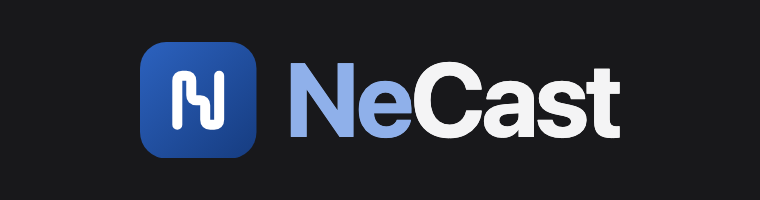
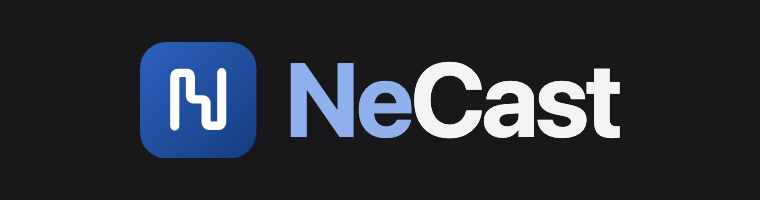
style: open up the steps of the N and sharpen its corners
The N is now drawn as an outline: stems 5 units wide, treads 4.6, 3.6 units
between the verticals (2.2 before, which closed up at 16 to 32 px), outer
corners of radius 4.2 and inner ones of 0.6, and round ends that reach just
past the top and bottom edges.

Changed region(s): [[0.2118, 0.33, 0.3026, 0.66]]

diff --git a/brand/build_brand.py b/brand/build_brand.py
@@ -4,45 +4,61 @@ The mark is an N drawn as a step function: the left stem rises, a high plateau s
 to a low plateau, and the right stem rises again, the shape of a population history with a
 bottleneck. White on a blue tile whose gradient centres on the NeCast blue (#1F4E9E).
 
+The N is drawn as an outline on a 64-unit grid rather than as a stroked line, so each part has
+its own measure: stems 5 units wide, treads 4.6 high (a horizontal looks heavier than a vertical
+of the same width), 3.6 units of blue between neighbouring verticals, so the steps stay open at
+small sizes. Outer corners turn with a radius of 4.2, inner ones with 0.6, and the two ends are
+round and reach 0.35 past the top and bottom edges, so they look as tall as the flat edges.
+
     python brand/build_brand.py            # writes brand/*.svg, public/favicon.svg, src/assets/logo.svg
     node brand/render_png.mjs              # then the PNG sizes, with headless Chrome
 """
+import math
 from pathlib import Path
 
 ROOT = Path(__file__).resolve().parent.parent
 BLUE, TOP, BOTTOM = "#1F4E9E", "#2C62BF", "#163C80"
 
-
-def rounded(points, r):
-    """Polyline through points, each bend rounded on the centre line with radius r."""
-    d = f"M{points[0][0]:.2f} {points[0][1]:.2f}"
-    for k in range(1, len(points) - 1):
-        (xa, ya), (xb, yb), (xc, yc) = points[k - 1], points[k], points[k + 1]
-
-        def toward(x0, y0, x1, y1):
-            length = ((x1 - x0) ** 2 + (y1 - y0) ** 2) ** 0.5
-            return x0 + (x1 - x0) * r / length, y0 + (y1 - y0) * r / length
-
-        (x1, y1), (x2, y2) = toward(xb, yb, xa, ya), toward(xb, yb, xc, yc)
-        d += f"L{x1:.2f} {y1:.2f}Q{xb:.2f} {yb:.2f} {x2:.2f} {y2:.2f}"
-    return d + f"L{points[-1][0]:.2f} {points[-1][1]:.2f}"
+STEM, TREAD, GAP, DROP = 5.0, 4.6, 3.6, 14.5
+OUTER, INNER, OVERSHOOT = 4.2, 0.6, 0.35
+CENTRE = (32.0, 31.5)  # a little above the middle of the tile
 
 
-# the N on a 64-unit grid: stems at x 20.5 and 43.5, from y 18.5 to 45.5; three treads, two drops
-X0, X1, Y0, Y1 = 20.5, 43.5, 18.5, 45.5
-TREAD, DROP = (X1 - X0) / 3, (Y1 - Y0) / 2
-POINTS = [(X0, Y1), (X0, Y0), (X0 + TREAD, Y0), (X0 + TREAD, Y0 + DROP), (X0 + 2 * TREAD, Y0 + DROP),
-          (X0 + 2 * TREAD, Y1), (X1, Y1), (X1, Y0)]
-STROKE = 5.5
-# Each bend is rounded with half the stroke width on the centre line: the outer edge then turns
-# with a radius of one stroke width and the inner edge meets in a clean corner. The treads are too
-# short for a larger radius; it would leave notches where neighbouring bends meet.
-GLYPH = rounded(POINTS, STROKE / 2)
+def outline(vertices):
+    """Closed path through the vertices, each corner ((x, y), r) turned with a circular arc of radius r."""
+    corners = []
+    for k, ((x, y), r) in enumerate(vertices):
+        (xp, yp), (xn, yn) = vertices[k - 1][0], vertices[(k + 1) % len(vertices)][0]
+        li, lo = math.hypot(x - xp, y - yp), math.hypot(xn - x, yn - y)
+        di, do = ((x - xp) / li, (y - yp) / li), ((xn - x) / lo, (yn - y) / lo)
+        sweep = 1 if di[0] * do[1] - di[1] * do[0] > 0 else 0
+        corners.append(((x - di[0] * r, y - di[1] * r), (x + do[0] * r, y + do[1] * r), r, sweep))
+    d = "M{:.2f} {:.2f}".format(*corners[0][1])
+    for (x1, y1), (x2, y2), r, sweep in corners[1:] + corners[:1]:
+        d += f"L{x1:.2f} {y1:.2f}A{r:.2f} {r:.2f} 0 0 {sweep} {x2:.2f} {y2:.2f}"
+    return d + "Z"
 
 
-def glyph(color, width=STROKE):
-    return (f'<path d="{GLYPH}" fill="none" stroke="{color}" stroke-width="{width}" '
-            f'stroke-linecap="round" stroke-linejoin="round"/>')
+# the four verticals (stems and risers) and the three tread levels, centred on CENTRE
+pitch = STEM + GAP
+width, height = 3 * pitch + STEM, 2 * DROP + TREAD
+xs = [CENTRE[0] - width / 2 + STEM / 2 + k * pitch for k in range(4)]
+ys = [CENTRE[1] - height / 2 + TREAD / 2 + k * DROP for k in range(3)]
+v, h, end = STEM / 2, TREAD / 2, STEM / 2
+top, bottom = ys[0] - h, ys[2] + h
+# clockwise from the foot of the left stem
+GLYPH = outline([
+    ((xs[0] - v, bottom + OVERSHOOT), end), ((xs[0] - v, top), OUTER), ((xs[1] + v, top), OUTER),
+    ((xs[1] + v, ys[1] - h), INNER), ((xs[2] + v, ys[1] - h), OUTER), ((xs[2] + v, ys[2] - h), INNER),
+    ((xs[3] - v, ys[2] - h), INNER), ((xs[3] - v, top - OVERSHOOT), end), ((xs[3] + v, top - OVERSHOOT), end),
+    ((xs[3] + v, bottom), OUTER), ((xs[2] - v, bottom), OUTER), ((xs[2] - v, ys[1] + h), INNER),
+    ((xs[1] - v, ys[1] + h), OUTER), ((xs[1] - v, ys[0] + h), INNER), ((xs[0] + v, ys[0] + h), INNER),
+    ((xs[0] + v, bottom + OVERSHOOT), end),
+])
+
+
+def glyph(color):
+    return f'<path d="{GLYPH}" fill="{color}"/>'
 
 
 def gradient(gid):
@@ -58,9 +74,8 @@ def svg(view, body, title="NeCast"):
 mark = svg("0 0 64 64", gradient("necast-tile") + '<rect width="64" height="64" rx="14.5" fill="url(#necast-tile)"/>' + glyph("#fff"))
 # full-bleed square for app icons (the platform rounds the corners itself)
 square = svg("0 0 64 64", gradient("necast-square") + '<rect width="64" height="64" fill="url(#necast-square)"/>' + glyph("#fff"))
-# the glyph alone, cropped to its stroke, in blue for light grounds and white for dark or blue ones
-pad = STROKE / 2
-crop = f"{X0 - pad:.2f} {Y0 - pad:.2f} {X1 - X0 + STROKE:.2f} {Y1 - Y0 + STROKE:.2f}"
+# the glyph alone, cropped to its outline, in blue for light grounds and white for dark or blue ones
+crop = f"{xs[0] - v:.2f} {top - OVERSHOOT:.2f} {width:.2f} {height + 2 * OVERSHOOT:.2f}"
 glyph_blue = svg(crop, glyph(BLUE))
 glyph_white = svg(crop, glyph("#fff"))
 
@@ -70,4 +85,4 @@ for name, text in {"necast-mark.svg": mark, "necast-mark-square.svg": square,
     (out / name).write_text(text)
 (ROOT / "public" / "favicon.svg").write_text(mark)
 (ROOT / "src" / "assets" / "logo.svg").write_text(mark)
-print(GLYPH)
+print(f"N {width:.1f} x {height:.1f} units, crop {crop}")
